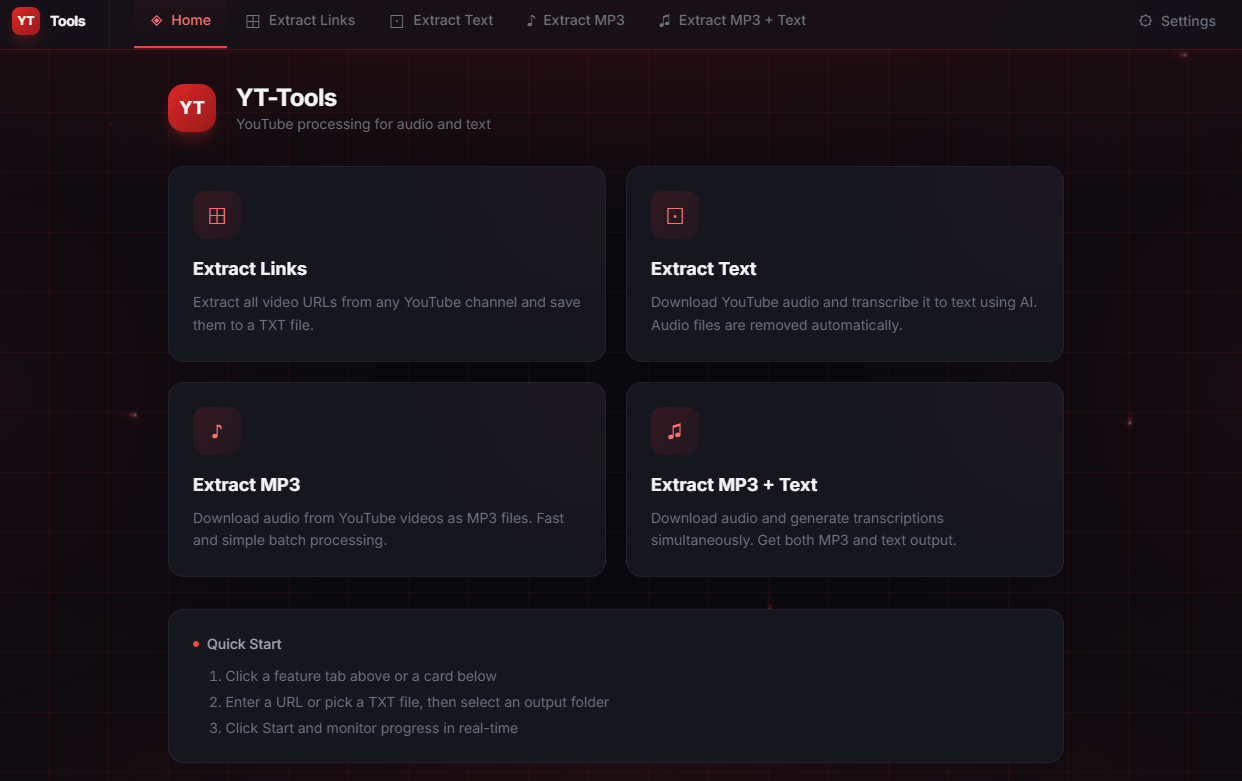
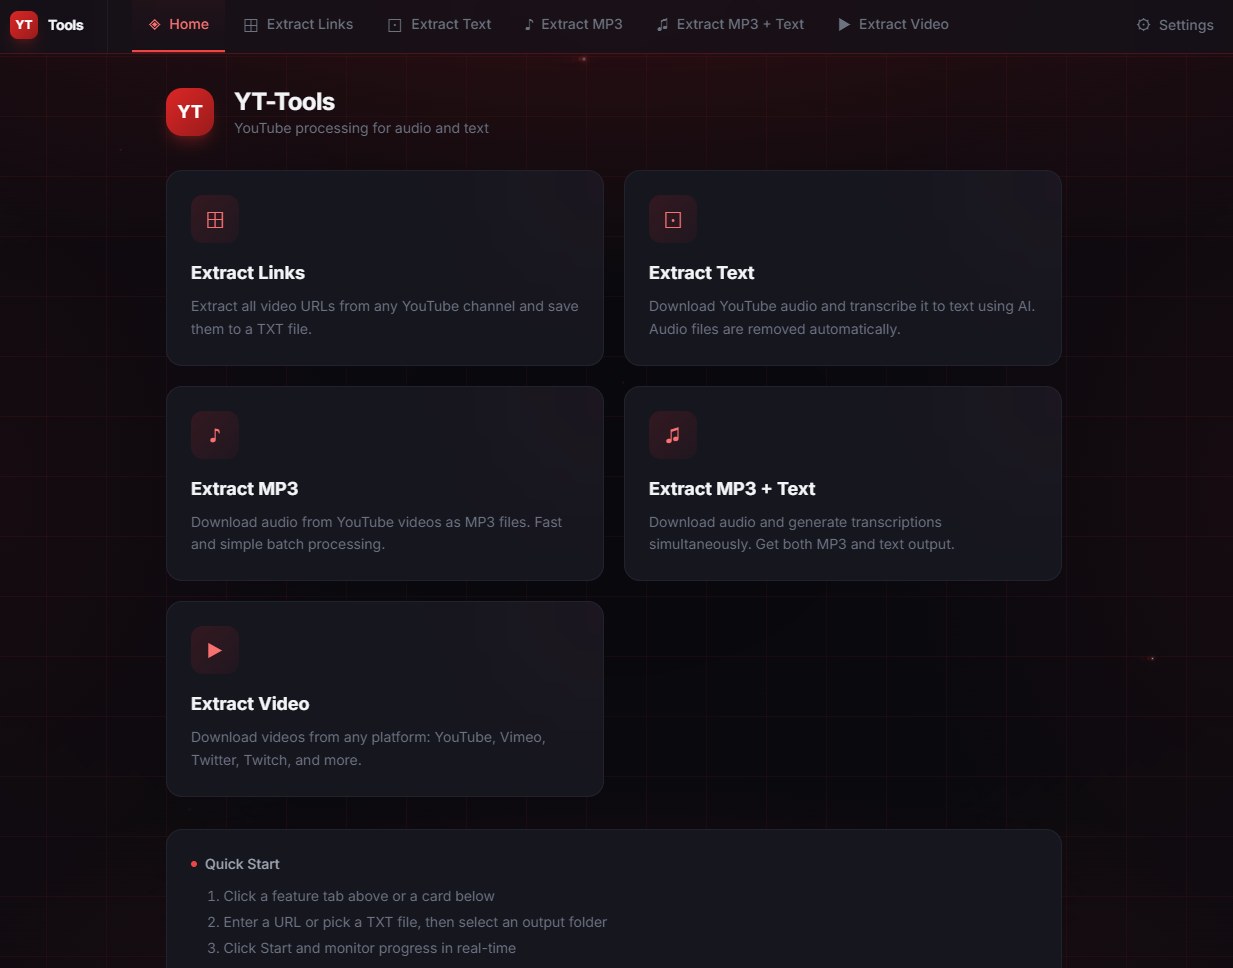
docs: update home screenshot and add v2.0.0 changelog

diff --git a/CHANGELOG-v2.0.0.md b/CHANGELOG-v2.0.0.md
@@ -1,0 +1,28 @@
+## v2.0.0
+
+### ✨ New Feature — Extract Video
+- Download videos from **1000+ platforms** (YouTube, Instagram, Twitter/X, TikTok, Vimeo, Twitch, Facebook, and more)
+- URL input field — paste any supported link and download
+- Smart filename generation with channel + title slug
+
+### 🎥 Video Quality
+- **1080p** download when ffmpeg is installed on your system — `bestvideo[ext=mp4]` (h264) + `bestaudio[ext=m4a]` (aac), merged via stream copy (no re-encoding)
+- **720p** fallback when ffmpeg is not available — single stream with audio included
+- New **Video Quality** indicator in Settings (⚙) showing ffmpeg status with install link
+
+### 🧠 Engine
+- `shared.download_video()` — new reusable function using `yt-dlp` with `-f b` (best single format) or `bestvideo+bestaudio` with ffmpeg
+- `_find_yt_dlp()` now uses `shutil.which()` to resolve full executable path, eliminating Access Denied errors
+- `shell=False` for reliable argument passing — no cmd.exe interference with paths or special characters
+- Output template uses `%(ext)s` for correct file extension on all platforms
+
+### 🔧 Internal
+- New `python/download_video.py` wrapper (same pattern as `download_mp3.py`)
+- New `src/pages/ExtractVideoPage.tsx` with URL input
+- `TaskType` now includes `'download_video'`
+- `useTaskForm` updated to handle URL-based tasks alongside `extract_links`
+- `ffmpeg:check` IPC handler in main process + `checkFfmpeg()` exposed via preload
+- Route `/extract-video` added to App router + NavTabs + HomePage cards
+
+### 📦 Download
+`YT-Tools-2.0.0-portable.exe` — 75 MB portable executable, no installation needed. Requires Python 3.8+ with `pip install yt-dlp faster-whisper`.